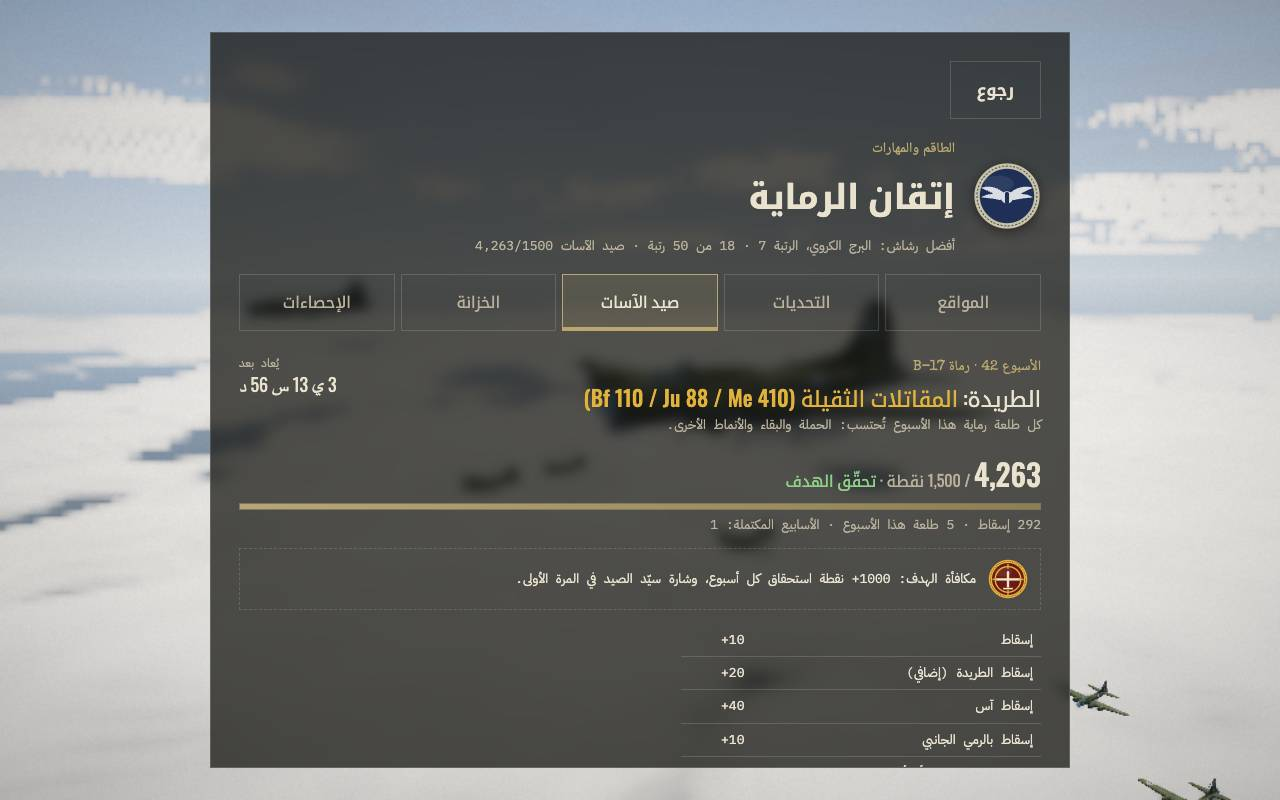
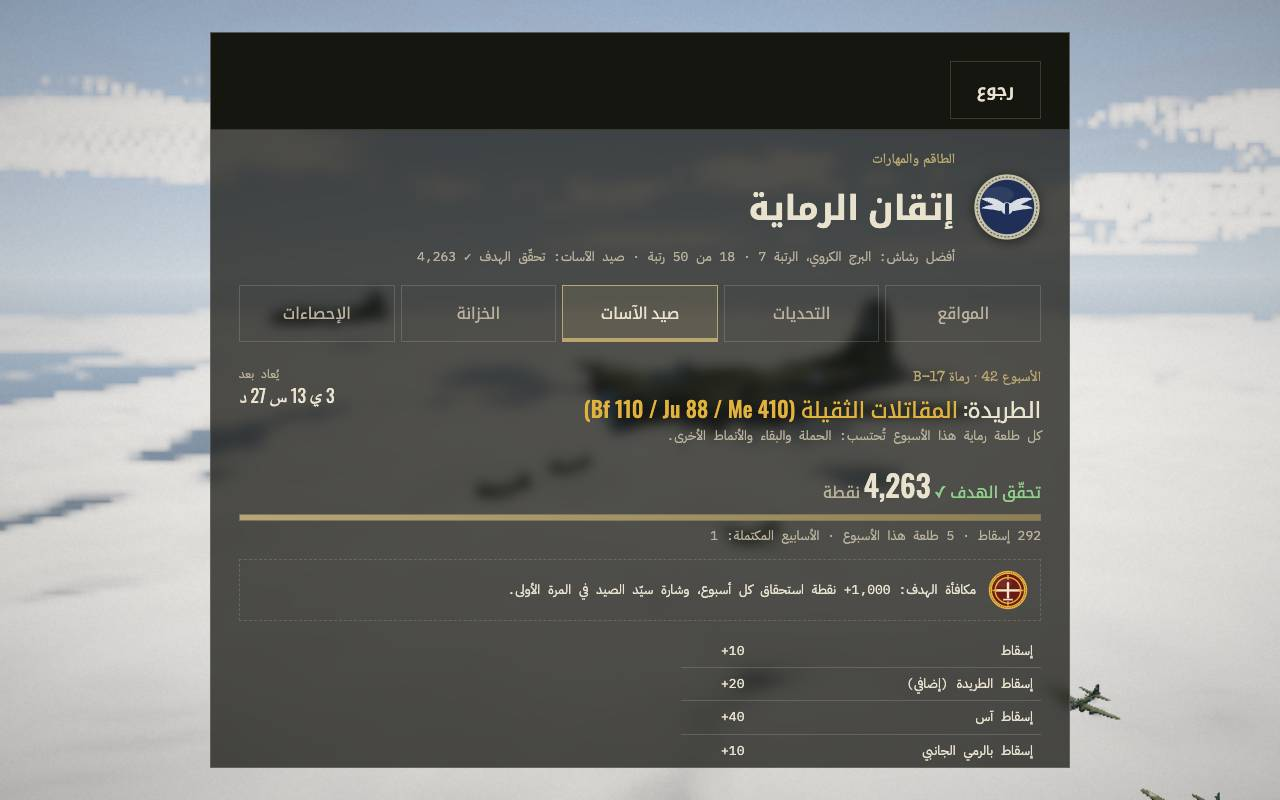
Goal 08 review round 1: back bar, number format, debrief padding, RTL stats
- The mastery sheet's Back button rides an opaque full-width sticky bar, so the
  header medallion, title and tabs scroll under it instead of showing through.
- Locale-formatted numbers everywhere (+1,000 merit, 1,500); a reached weekly
  goal shows "Goal reached ✓ 4,763".
- Debrief mastery block padded; XP never wraps; hunt and quarry on their own
  lines with unbreakable aircraft designations.
- Stats tables use fixed centred columns so headers line up in LTR and RTL;
  "600 m+" is localised.
- The headless check asserts all four and re-shoots the evidence.

diff --git a/src/ui/MasteryScreen.ts b/src/ui/MasteryScreen.ts
@@ -30,7 +30,7 @@ const bar = (x: number) => `<div class="ms-bar"><i style="width:${pct(x)}"></i><
 
 // "Gun sight: Gyro K-14", translated piecewise
 export function rewardText(r: Reward): string {
-  if (r.kind === 'merit') return tx('+{n} merit', { n: r.amount });
+  if (r.kind === 'merit') return tx('+{n} merit', { n: num(r.amount) });
   const p = rewardParts(r);
   return `${tx(p.kind)}: ${r.kind === 'name' ? p.name : tx(p.name)}`;
 }
@@ -44,6 +44,11 @@ export function sourceLabel(src: string): string {
   const c = CHALLENGES.find((x) => x.id === a);
   return c ? `${tx(c.name)} · ${tx('Tier {n}', { n: b })}` : '';
 }
+
+// Aircraft designations never break across lines ("Me 410", not "Me / 410")
+const keepTypes = (s: string) => s.replace(/\b(Bf|Ju|Me|Fw|He|Do) (\d)/g, '$1\u00a0$2');
+// "1,234 / 1,500" before the goal, "Goal reached ✓ 4,753" after it
+const huntScore = (points: number, done: boolean) => (done ? tx('Goal reached ✓ {p}', { p: num(points) }) : `${num(points)} / ${num(HUNT_GOAL)}`);
 
 const howTo = (r: Reward) => sourcesOf(r).slice(0, 2).map(sourceLabel).join(' / ');
 
@@ -67,7 +72,7 @@ function stationsTab(book: MasteryBook): string {
       <div class="ms-cmain">
         <div class="ms-ct"><b>${stName(s)}</b><span>${esc(tx(r.name))}</span></div>
         ${bar(r.progress)}
-        <div class="ms-cs">${r.next !== null ? tx('{xp} / {next} XP', { xp: num(Math.floor(r.xp)), next: num(r.next) }) : tx('Highest rank · {xp} XP', { xp: num(Math.floor(r.xp)) })} · ${tx('{n} kills', { n: rec.kills })} · ${tx('accuracy {p}', { p: acc })}</div>
+        <div class="ms-cs">${r.next !== null ? tx('{xp} / {next} XP', { xp: num(Math.floor(r.xp)), next: num(r.next) }) : tx('Highest rank · {xp} XP', { xp: num(Math.floor(r.xp)) })} · ${tx('{n} kills', { n: num(rec.kills) })} · ${tx('accuracy {p}', { p: acc })}</div>
         ${next ? `<div class="ms-next">${tx('Rank {n}', { n: r.rank + 1 })}: ${rewardLabel(next)}</div>` : ''}
       </div>
     </div>`;
@@ -92,14 +97,14 @@ function huntTab(book: MasteryBook): string {
   return `<div class="ms-hunt">
     <div class="ms-hhead">
       <div><div class="kicker">${tx('Week {n}', { n: +h.week.slice(4) })} · ${tx('B-17 gunners')}</div>
-        <div class="ms-quarry">${tx('Quarry')}: <b>${esc(tx(q.name))}</b></div>
+        <div class="ms-quarry">${tx('Quarry')}: <b>${esc(keepTypes(tx(q.name)))}</b></div>
         <div class="ms-cs">${tx('Every gunner sortie this week counts: campaign, Survival and the other modes.')}</div></div>
       <div class="ms-cd2">${tx('Resets in')}<b data-hunt-cd>${esc(tx(fmtWeekCountdown(msUntilNextWeek())))}</b></div>
     </div>
-    <div class="ms-hpts"><b>${num(h.points)}</b> / ${num(HUNT_GOAL)} ${tx('points')}${h.done ? ` · <span class="ms-ok">${tx('Goal reached')}</span>` : ''}</div>
+    <div class="ms-hpts">${h.done ? `<span class="ms-ok">${tx('Goal reached ✓ {p}', { p: `<b>${num(h.points)}</b>` })}</span> ${tx('points')}` : `<b>${num(h.points)}</b> / ${num(HUNT_GOAL)} ${tx('points')}`}</div>
     ${bar(h.points / HUNT_GOAL)}
-    <div class="ms-cs">${tx('{k} kills · {m} sorties this week', { k: h.kills, m: h.missions })} · ${tx('Weeks won: {n}', { n: book.d.huntWins })}</div>
-    <div class="ms-reward">${patchSvg(HUNT_PATCH, 40)}<span>${tx('Goal reward: +{m} merit every week, and the Hunt Master patch the first time.', { m: HUNT_MERIT })}</span></div>
+    <div class="ms-cs">${tx('{k} kills · {m} sorties this week', { k: num(h.kills), m: num(h.missions) })} · ${tx('Weeks won: {n}', { n: book.d.huntWins })}</div>
+    <div class="ms-reward">${patchSvg(HUNT_PATCH, 40)}<span>${tx('Goal reward: +{m} merit every week, and the Hunt Master patch the first time.', { m: num(HUNT_MERIT) })}</span></div>
     <table class="ms-table ms-points"><tbody>${rows.map(([k, v]) => `<tr><td>${esc(tx(k))}</td><td dir="ltr">+${v}</td></tr>`).join('')}</tbody></table>
     <div data-hunt-board></div>
   </div>`;
@@ -141,7 +146,7 @@ function lockerTab(book: MasteryBook, prog: Progression): string {
 
 function statsTab(book: MasteryBook): string {
   const row = (label: string, r: ReturnType<MasteryBook['totals']>, cls = '') => `<tr class="${cls}"><th scope="row">${esc(label)}</th><td>${num(r.kills)}</td><td>${num(r.shots)}</td><td>${num(r.hits)}</td><td>${r.shots > 0 ? `${((r.hits / r.shots) * 100).toFixed(1)}%` : '—'}</td><td>${fmtHours(r.time)}</td></tr>`;
-  const row2 = (label: string, r: ReturnType<MasteryBook['totals']>, cls = '') => `<tr class="${cls}"><th scope="row">${esc(label)}</th><td>${r.deflection}</td><td>${r.aces}</td><td>${r.long}</td><td>${r.heavy}</td><td>${r.clean}</td><td>${r.bestMission}</td></tr>`;
+  const row2 = (label: string, r: ReturnType<MasteryBook['totals']>, cls = '') => `<tr class="${cls}"><th scope="row">${esc(label)}</th><td>${num(r.deflection)}</td><td>${num(r.aces)}</td><td>${num(r.long)}</td><td>${num(r.heavy)}</td><td>${num(r.clean)}</td><td>${num(r.bestMission)}</td></tr>`;
   const t = book.totals();
   const accs = STATION_ORDER.map((s) => ({ s, a: book.accuracy(s), n: book.station(s).shots })).filter((x) => x.n >= 200).sort((a, b) => b.a - a.a);
   return `<div class="ms-scroll"><table class="ms-table ms-stats"><thead><tr><th></th><th>${tx('Kills')}</th><th>${tx('Rounds fired')}</th><th>${tx('Hits')}</th><th>${tx('Accuracy')}</th><th>${tx('Time at the gun')}</th></tr></thead>
@@ -161,10 +166,10 @@ export function showMasteryScreen(book: MasteryBook, prog: Progression, h: Maste
   const body = tab === 'stations' ? stationsTab(book) : tab === 'challenges' ? CHALLENGES.map((c) => challengeRow(book, c)).join('')
     : tab === 'hunt' ? huntTab(book) : tab === 'locker' ? lockerTab(book, prog) : statsTab(book);
   root.innerHTML = `<div class="screen-center"><div class="box panel menu-sheet ms-sheet">
-    <button class="btn ghost menu-back" data-back>${tx('Back')}</button>
+    <div class="ms-topbar"><button class="btn ghost menu-back" data-back>${tx('Back')}</button></div>
     <div class="ms-head">${patchSvg(book.activePatch(prog), 68)}
       <div><div class="kicker">${tx('Crew & Skills')}</div><h2>${tx('Gunner Mastery')}</h2>
-      <div class="ms-sub">${tx('Best gun: {s}, rank {n}', { s: stName(best.s), n: best.r.rank })} · ${tx('{n} of {of} ranks', { n: ranks, of: MAX_RANK * STATION_ORDER.length })} · ${tx('Ace Hunt {p}/{g}', { p: num(book.d.hunt.points), g: HUNT_GOAL })}</div></div></div>
+      <div class="ms-sub">${tx('Best gun: {s}, rank {n}', { s: stName(best.s), n: best.r.rank })} · ${tx('{n} of {of} ranks', { n: ranks, of: MAX_RANK * STATION_ORDER.length })} · ${tx('Ace Hunt')}: ${huntScore(book.d.hunt.points, book.d.hunt.done)}</div></div></div>
     <div class="hangar-tabs ms-tabs" role="tablist" aria-label="${tx('Gunner Mastery')}">${MASTERY_TABS.map(([id, label]) => `<button role="tab" id="ms-tab-${id}" aria-controls="ms-body" aria-selected="${id === tab}" tabindex="${id === tab ? 0 : -1}" data-tab="${id}">${tx(label)}</button>`).join('')}</div>
     <div id="ms-body" class="ms-body ms-${tab}" role="tabpanel" aria-labelledby="ms-tab-${tab}">${body}</div>
   </div></div>`;
@@ -216,8 +221,8 @@ export function renderMasteryDebrief(rep: MissionReport, book: MasteryBook, prog
   sec.className = 'ms-debrief';
   const st = rep.stations.map((g) => {
     const up = g.after.rank > g.before.rank;
-    return `<li>${rankBadge(g.after.rank, 34)}<div class="ms-cmain"><div class="ms-ct"><b>${stName(g.id)}</b><span>${esc(tx(g.after.name))}</span>${up ? `<em class="ms-up">${tx('RANK UP')}</em>` : ''}<span class="ms-xp">${tx('+{n} XP', { n: g.gained })}</span></div>
-      ${bar(g.after.progress)}<div class="ms-cs">${tx('{k} kills · {d} deflection · {a} aces', { k: g.tally.kills, d: g.tally.deflection, a: g.tally.aces })}${g.tally.shots > 0 ? ` · ${tx('accuracy {p}', { p: `${Math.round((g.tally.hits / g.tally.shots) * 100)}%` })}` : ''}</div></div></li>`;
+    return `<li>${rankBadge(g.after.rank, 34)}<div class="ms-cmain"><div class="ms-ct"><b>${stName(g.id)}</b><span>${esc(tx(g.after.name))}</span>${up ? `<em class="ms-up">${tx('RANK UP')}</em>` : ''}<span class="ms-xp">${tx('+{n} XP', { n: num(g.gained) })}</span></div>
+      ${bar(g.after.progress)}<div class="ms-cs">${tx('{k} kills · {d} deflection · {a} aces', { k: num(g.tally.kills), d: num(g.tally.deflection), a: num(g.tally.aces) })}${g.tally.shots > 0 ? ` · ${tx('accuracy {p}', { p: `${Math.round((g.tally.hits / g.tally.shots) * 100)}%` })}` : ''}</div></div></li>`;
   }).join('');
   const ch = rep.challenges.map((c) => {
     const def = CHALLENGES.find((x) => x.id === c.id)!;
@@ -229,7 +234,8 @@ export function renderMasteryDebrief(rep: MissionReport, book: MasteryBook, prog
     ${st ? `<ul class="ms-dst">${st}</ul>` : ''}
     ${ch ? `<div class="ms-pills">${ch}</div>` : ''}
     ${rw ? `<ul class="ms-drw">${rw}</ul>` : ''}
-    <div class="ms-dhunt">${tx('Weekly Ace Hunt')}: <b>${tx('+{n} points', { n: hunt.gained })}</b> · ${num(hunt.points)}/${num(hunt.goal)}${hunt.reached ? ` · <span class="ms-ok">${tx('Goal reached')}</span>` : ''} · ${tx('Quarry')}: ${esc(tx(hunt.quarry.name))}</div>`;
+    <div class="ms-dhunt"><div>${tx('Weekly Ace Hunt')}: <b>${tx('+{n} points', { n: num(hunt.gained) })}</b> · ${hunt.reached ? `<span class="ms-ok">${huntScore(hunt.points, true)}</span>` : huntScore(hunt.points, false)}</div>
+      <div>${tx('Quarry')}: ${esc(keepTypes(tx(hunt.quarry.name)))}</div></div>`;
   const row = Array.from(box.children).filter((x) => x.classList.contains('row')).pop();
   box.insertBefore(sec, row ?? null);
 }

diff --git a/src/ui/mastery.css b/src/ui/mastery.css
@@ -1,7 +1,13 @@
 /* Gunner Mastery (MasteryScreen.ts): the hangar sheet and the debrief report. Logical properties
    so the Arabic layout mirrors without extra rules. */
 .ms-sheet { width: min(860px, 100%); }
-.ms-head { display: flex; gap: 18px; align-items: center; margin-bottom: 18px; }
+.ms-head { display: flex; gap: 18px; align-items: center; margin-bottom: 18px; position: relative; z-index: 0; }
+/* the sticky Back button stays above the header medallion (its drop-shadow filter) and the cards while the sheet scrolls */
+/* The Back button rides an opaque full-width bar pinned to the top of the sheet, so the header
+   medallion, the title and the tabs scroll under it instead of showing through or around it. */
+.ms-sheet { --ms-pad: 28px; }
+.ms-topbar { position: sticky; top: calc(-1 * var(--ms-pad)); z-index: 10; margin: calc(-1 * var(--ms-pad)) calc(-1 * var(--ms-pad)) 18px; padding: var(--ms-pad) var(--ms-pad) 10px; background: var(--panel-solid); border-bottom: 1px solid var(--line); }
+.ms-topbar .btn.menu-back { position: static; margin: 0; background: var(--panel-solid); }
 .ms-head h2 { margin: 4px 0 6px; }
 .ms-head .patch { flex: none; filter: drop-shadow(0 3px 6px rgba(0,0,0,.5)); }
 .ms-sub { color: var(--ink-dim); font: 13px/1.5 'IBM Plex Mono', 'IBM Plex Sans Arabic', monospace; }
@@ -50,6 +56,12 @@ html[dir=rtl] .ms-bar i { background: linear-gradient(270deg, #8f7f4c, var(--kha
 .ms-points { max-width: 360px; margin-bottom: 14px; }
 .ms-points td:first-child { text-align: start; }
 .ms-scroll { overflow-x: auto; margin-bottom: 8px; }
+/* stats: fixed columns, centred numbers under wrapped headers, so header and column always line up (LTR and RTL) */
+.ms-stats { table-layout: fixed; }
+.ms-stats thead th:first-child { width: 24%; }
+.ms-stats th, .ms-stats td { text-align: center; white-space: normal; overflow-wrap: anywhere; }
+.ms-stats th[scope=row] { text-align: start; }
+.ms-stats thead th { vertical-align: bottom; line-height: 1.25; }
 .ms-lsec { margin-bottom: 22px; }
 .ms-lsec h3 { font: 18px Oswald, 'Noto Kufi Arabic', sans-serif; letter-spacing: 1px; color: var(--khaki); margin: 0 0 4px; display: flex; gap: 10px; align-items: baseline; font-weight: 500; }
 .ms-lsec .ms-note { margin: 0 0 10px; }
@@ -73,13 +85,13 @@ html[dir=rtl] .ms-bar i { background: linear-gradient(270deg, #8f7f4c, var(--kha
 .ms-chip.locked { opacity: .6; cursor: default; font-size: 12px; }
 .ms-sheet :is(.ms-tile, .ms-chip):focus-visible { outline: 2px solid #ead99e; outline-offset: 2px; }
 /* debrief */
-.ms-debrief { margin: 14px 0 6px; padding-top: 12px; border-top: 1px solid var(--line); text-align: start; }
+.ms-debrief { margin: 14px 0 6px; padding: 12px 16px 14px; border: 1px solid var(--line); background: rgba(0,0,0,.18); text-align: start; overflow-wrap: anywhere; }
 .ms-dhead { display: flex; gap: 10px; align-items: center; }
 .ms-dst { list-style: none; margin: 8px 0; padding: 0; display: grid; gap: 8px; }
 .ms-dst li { display: flex; gap: 10px; align-items: center; }
 .ms-dst .ms-ct b { font-size: 16px; }
 .ms-dst .ms-ct span { font-size: 13px; }
-.ms-xp { margin-inline-start: auto; color: var(--ink) !important; }
+.ms-xp { margin-inline-start: auto; padding-inline-end: 2px; color: var(--ink) !important; white-space: nowrap; }
 .ms-up { font-style: normal; font-size: 11px; letter-spacing: 1px; color: #17130c; background: #e2b33c; padding: 1px 6px; }
 .ms-pills { display: flex; flex-wrap: wrap; gap: 6px; margin: 6px 0; }
 .ms-pill { font: 12px 'IBM Plex Mono', 'IBM Plex Sans Arabic', monospace; color: var(--ink-dim); border: 1px solid var(--line); padding: 3px 8px; }
@@ -87,14 +99,18 @@ html[dir=rtl] .ms-bar i { background: linear-gradient(270deg, #8f7f4c, var(--kha
 .ms-drw { list-style: none; margin: 6px 0; padding: 0; display: grid; gap: 4px; }
 .ms-drw li { font: 13px 'IBM Plex Mono', 'IBM Plex Sans Arabic', monospace; color: #e2b33c; display: flex; gap: 10px; flex-wrap: wrap; }
 .ms-drw small { color: var(--ink-dim); }
-.ms-dhunt { font: 13px/1.5 'IBM Plex Mono', 'IBM Plex Sans Arabic', monospace; color: var(--ink-dim); }
+.ms-dhunt { font: 13px/1.5 'IBM Plex Mono', 'IBM Plex Sans Arabic', monospace; color: var(--ink-dim); margin-top: 8px; overflow-wrap: normal; }
+.ms-dhunt > div + div { margin-top: 2px; }
 .ms-dhunt b { color: var(--ink); font-weight: 500; }
 @media (max-width: 600px) {
+  .ms-sheet { --ms-pad: 18px; }
   .ms-head { gap: 12px; }
   .ms-head .patch { width: 52px; height: 52px; }
   .ms-tabs { grid-template-columns: repeat(3, minmax(0, 1fr)); }
   .ms-card { padding: 10px; gap: 10px; }
   .ms-ct b { font-size: 18px; }
   .ms-grid { grid-template-columns: repeat(auto-fill, minmax(96px, 1fr)); }
-  .ms-table th, .ms-table td { padding: 6px 5px; font-size: 12px; }
+  .ms-table th, .ms-table td { padding: 6px 3px; font-size: 11px; }
+  .ms-stats thead th { font-size: 10px; }
+  .ms-debrief { padding: 10px 12px 12px; }
 }

diff --git a/src/i18n/ar/mastery.ts b/src/i18n/ar/mastery.ts
@@ -41,7 +41,7 @@ const table: PhraseTable = {
       `خبرة الإتقان: ${ltr('10')} لكل إسقاط، ${ltr('+10')} للرمي الجانبي، ${ltr('+25')} للآس، ${ltr('+10')} من مسافة ${ltr('600 m')} أو أكثر، ${ltr('+5')} للثقيلة، ${ltr('+20')} لجولة بلا إصابة، ${ltr('+20')} لدقة ${ltr('25%')} على ${ltr('100')} طلقة.`,
     'Best gun: {s}, rank {n}': 'أفضل رشاش: {s}، الرتبة {n}',
     '{n} of {of} ranks': '{n} من {of} رتبة',
-    'Ace Hunt {p}/{g}': 'صيد الآسات {p}/{g}',
+    'Goal reached ✓ {p}': 'تحقّق الهدف ✓ {p}',
 
     // ---------------- rewards ----------------
     'Gun sight': 'منظار التصويب',
@@ -125,7 +125,7 @@ const table: PhraseTable = {
     'Your best gun: {s}, {p} accuracy.': 'أفضل رشاش لديك: {s}، بدقة {p}.',
     'Deflection': 'جانبي',
     'Aces': 'آسات',
-    '600 m+': ltr('600 m+'),
+    '600 m+': `${ltr('600')} م فأكثر`,
     'Heavies': 'ثقيلة',
     'Untouched rounds': 'جولات بلا إصابة',
     'Best sortie': 'أفضل طلعة',

diff --git a/docs/phase11/reports/08.md b/docs/phase11/reports/08.md
@@ -34,13 +34,20 @@ Performance: the per-frame updatable only adds `World.stats` deltas into a per-s
 
 - `npm run check` (tsc + vite build + vitest): **94 files, 936 tests passed** locally; CI on the branch (see below).
 - `tests/mastery.test.ts`: ranks and rewards, crossing angle / kill classes, commit + persistence, rank-reward fallback merit, challenge tiers, migration, weekly hunt roll-over and once-a-week pay, seeded quarry, every unlockable earnable, exclusivity vs crates, sight/patch drawing, **the new board matches the `firestore.rules` regex while old boards still match**, Arabic coverage.
-- `tools/mastery_ui_check.mjs` (headless shell, port 5328; results in `docs/phase11/shots/08/check.json`): the autoplay bot (skill 0) flew campaign mission 1 to the debrief — 25 kills, 1,675 rounds, 517 hits; the per-station tallies add up **exactly** to `World.stats` (waist L 1 kill/31 rounds, top 13/1,092, ball 5/278, tail 6/274), the debrief report rendered, the hunt gained 490 points (≈ 3–4 good sorties to the 1,500 goal). All five tabs render in English and Arabic (RTL), desktop and 390 px phone, with no horizontal scroll; equipping a sight and a patch works and the in-flight HUD / ball turret show the chosen sight; no page errors.
+- `tools/mastery_ui_check.mjs` (headless shell, port 5328; results in `docs/phase11/shots/08/check.json`): the autoplay bot (skill 0) flew campaign mission 1 to the debrief — 27 kills, 1,689 rounds, 594 hits; the per-station tallies add up **exactly** to `World.stats` (waist L 1 kill/118 rounds, top 14/830, ball 8/498, tail 4/243), the debrief report rendered, the hunt gained 500 points (≈ 3–4 good sorties to the 1,500 goal). All five tabs render in English and Arabic (RTL), desktop and 390 px phone, with no horizontal scroll; equipping a sight and a patch works and the in-flight HUD / ball turret show the chosen sight; no page errors.
 - Quality gate vs LIVE main (same title-menu path, same viewport): [before](../shots/08/before-live-hangar-crew.jpg) / [after](../shots/08/after-hangar-crew.jpg). The gameplay graphics shots are unchanged by design (default sight identical), so the 16-shot capture rig was not re-run.
 
-Shots (`docs/phase11/shots/08/`): `en-stations`, `en-challenges`, `en-hunt`, `en-locker`, `en-locker-equipped`, `en-stats`,
+Shots (`docs/phase11/shots/08/`): `en-stations`, `en-challenges`, `en-hunt`, `en-locker`, `en-locker-scrolled`, `en-locker-equipped`, `en-stats`,
 `debrief-mastery`, `debrief-mastery-section`, `flight-sight-waistL` (Ace's Chevron on the waist hip reticle), `flight-sight-ball`
-(the same style on the ball turret's reflector), `ar-stations`, `ar-hunt`, `ar-locker`, `ar-phone-stations`, `ar-phone-stats`,
+(the same style on the ball turret's reflector), `ar-stations`, `ar-hunt`, `ar-locker`, `ar-phone-stations`, `ar-phone-stats`, `ar-phone-stats-kinds`,
 `ar-phone-locker`, `en-phone-stations`, `en-phone-challenges`, `en-phone-hunt`, `hangar-crew-tab`.
+
+## Review round 1 fixes
+
+1. **Back button over the header:** the sheet's sticky Back button sat under a `.btn.ghost` transparent background, so the header medallion, title and tabs showed through it once the sheet scrolled. It now rides an opaque full-width top bar (`.ms-topbar`, z-index 10, pinned to the sheet's top edge) and the header has its own `z-index: 0` stacking. `tools/mastery_ui_check.mjs` scrolls Stations, Locker and Stats (desktop and Arabic phone) and asserts the Back button is the topmost element at its centre and its bar is opaque. Shot: `en-locker-scrolled`.
+2. **Number formatting:** every count, XP, merit and point figure goes through the locale formatter (`+1,000 merit`, `1,500`); once the weekly goal is reached the header, Ace Hunt tab and debrief show `Goal reached ✓ 4,763` instead of `points/goal` (asserted in the check).
+3. **Debrief section:** inner padding and a framed block; the XP figure never wraps; the hunt line and the quarry are two lines and aircraft designations keep a non-breaking space (`Me 410` never splits). Shot: `debrief-mastery-section`.
+4. **Arabic phone stats:** both tables use fixed, centred columns, so each header sits over its own numbers in LTR and RTL (asserted: header and first-row cell centres within 2 px, tables fit the sheet); `600 m+` is localised (`600 م فأكثر`). Shots: `ar-phone-stats`, `ar-phone-stats-kinds`.
 
 ## Not done / notes
 
